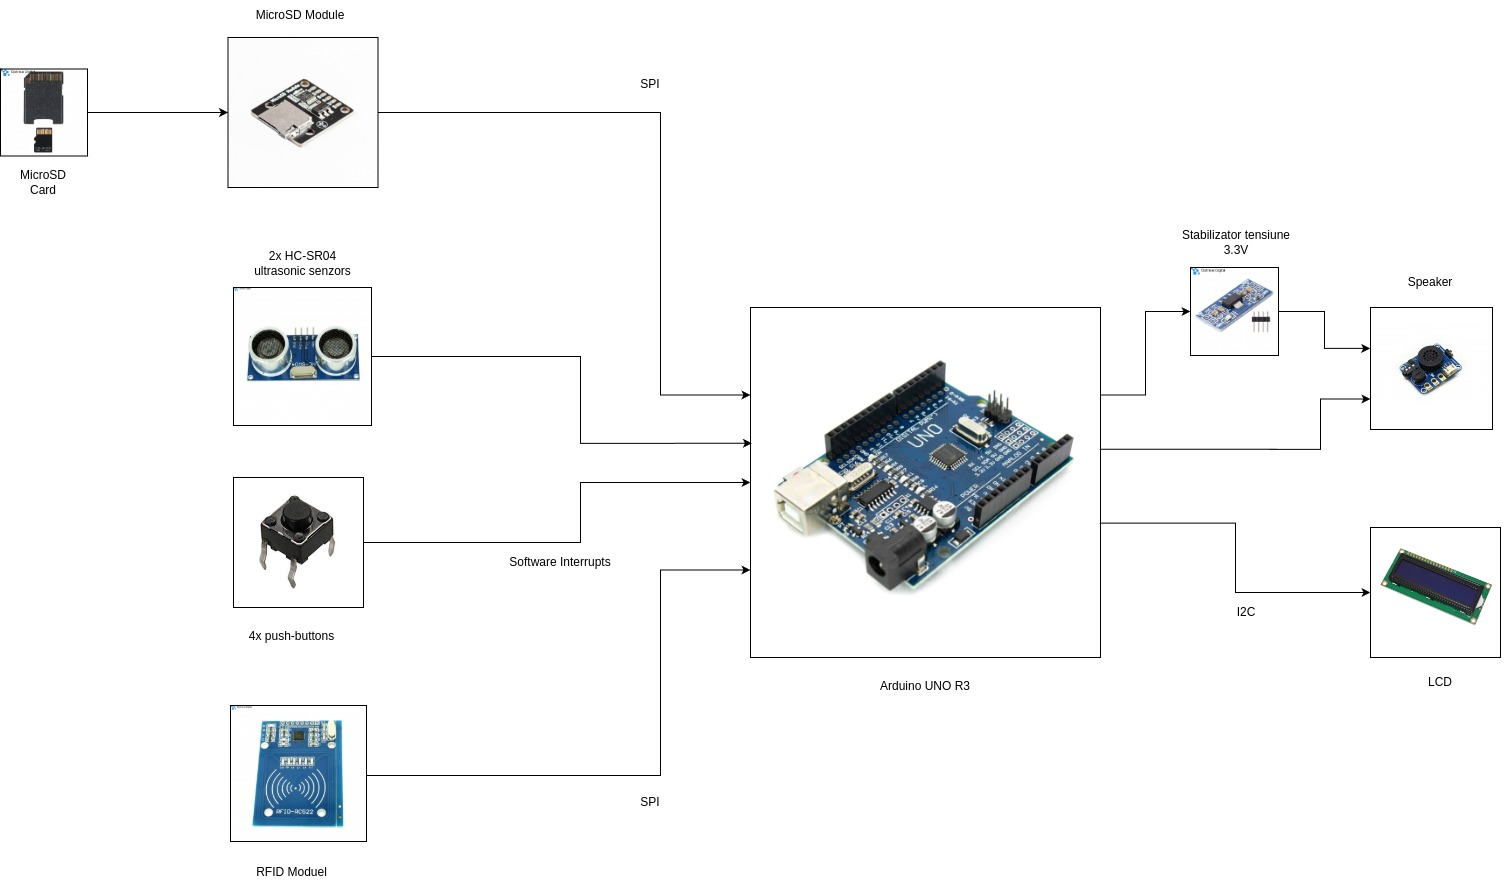
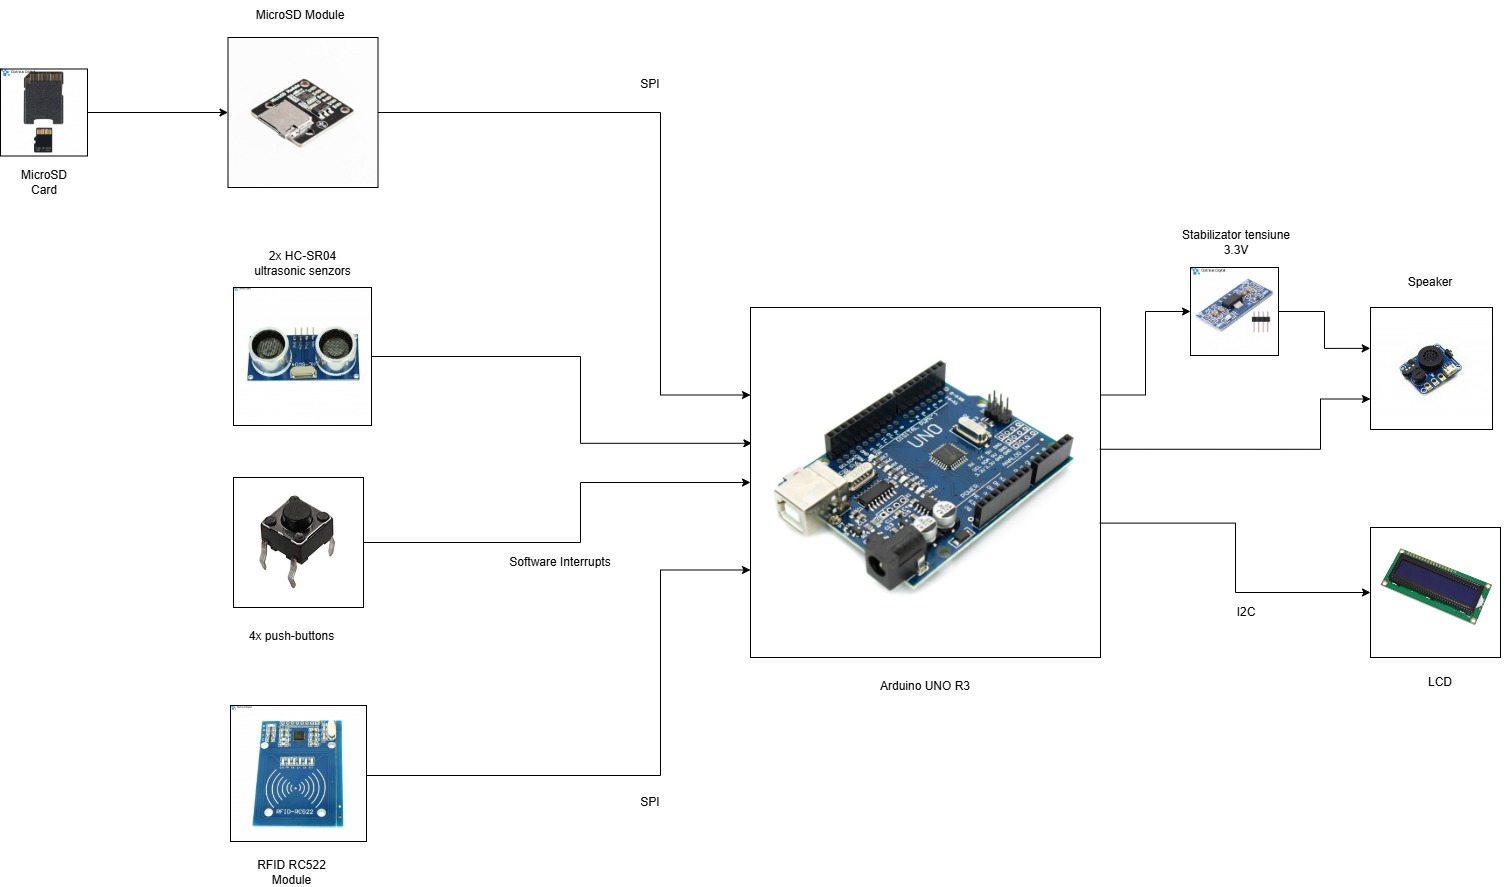
Hardware Design

diff --git a/README.md b/README.md
@@ -21,9 +21,9 @@ TODO
 - Rezistente 220Ω
 - [MicroSD Module](https://ardushop.ro/ro/module/1553-groundstudio-microsd-module-6427854023056.html?gad_source=1&gbraid=0AAAAADlKU-7r0Viay1-t361QlB21iOgs0&gclid=Cj0KCQjwqv2_BhC0ARIsAFb5Ac84XfsbeL3-M0mj8zEMxlvniXkfdQ1SGlEzoFS0otF-lMW6SyWNGnUaAvFmEALw_wcB)
 - [Card MicroSD 16 GB](https://www.optimusdigital.ro/ro/memorii/8678-card-microsd-original-de-16-gb-cu-noobs-compatibil-cu-raspberry-pi-4-model-b-varianta-bulk.html?search_query=%090104110000057297%09&results=1)
-  - Nu am gasit un card mai mic :( 
+  - Nu am gasit un card mai mic 🙁
 - [Speaker for Micro:bit](https://www.emag.ro/modul-difuzor-waveshare-36-52x43-44-mm-compatibil-cu-micro-bit-arduino-speakerformicro-bitwaveshare14542/pd/D785XQMBM/?ref=history-shopping_418333718_138738_1)
-  - Cred ca erau si alte optiuni mult mai ieftine :) 
+  - Cred ca erau si alte optiuni mult mai ieftine 🙂
 - [Stabilizator de 3.3 V](https://www.optimusdigital.ro/ro/electronica-de-putere-stabilizatoare-liniare/168-modul-cu-sursa-de-alimentare-de-33-v.html?search_query=0104110000000521&results=1) (pentru Vin al Speaker-ului)
 - 2 x [Senzor ultrasonic HC-SR04](https://www.optimusdigital.ro/ro/senzori-senzori-ultrasonici/9-senzor-ultrasonic-hc-sr04-.html?search_query=0104110000000866&results=1)
 - [Breadboard 830 puncte](https://www.optimusdigital.ro/ro/prototipare-breadboard-uri/8-breadboard-830-points.html?search_query=breadboard+830&results=15)
@@ -37,20 +37,45 @@ TODO
 ![img](./Images/PM-Project-schema-bloc.jpg)
 
 
-### Circuit Design
+> Diagrama a fost realizata in [draw.io](https://app.diagrams.net/).
 
-TODO
+
+### Schema circuit
+
+![img](./Images/circuit_design.png)
+
+
+> Schema a fost realizata in [Cirkit Designer IDE](https://app.cirkitdesigner.com/).
 
 
 
 
 ## Audio Files
 
-https://y2mate.nu/en-CVeZ/
-https://audio.online-convert.com/convert-to-wav
+Pentru a descarca melodii de pe YouTube drept fisiere **MP3**, am fosolosit:
+- <https://y2mate.nu/en-CVeZ/>
+
+Pentru a transforma **MP3**-urile in fisiere **WAV**, am folosit:
+- <https://audio.online-convert.com/convert-to-wav>
 
 
-# Conectarea butoanelor
+Optiunile folosite la convertirea **MP3 -> WAV**:
+- Bit resolution: **8 bit**
+- Audio frequency: **16 kHz**
+- Audio channels: **Mono**
+
+
+Inainte de a pune fisierele audio pe microSD,
+am formatat cardul in modul **FAT32**
+si am denumit fisierele corespunzator.
+
+⚠ Atentie! Sistemele de fisiere **FAT** folosesc conventia [8.3 filename](https://en.wikipedia.org/wiki/8.3_filename)
+(*also called a **short filename** or **SFN***),
+ceea ce inseamna ca denumirea fisierelor:
+- nu poate avea mai mult de **8** caractere inainte de punct
+- maxim **3** caractere pentru extensie
+
+## Conectarea butoanelor
 
 - Data Sheet Push-Buttons: <https://wiki-content.arduino.cc/documents/datasheets/Button.pdf>
 - <https://components101.com/switches/push-button>
@@ -66,3 +91,25 @@ Asa trebuie sa arate conexiunea cu un push-buton:
 
 <img src="./Images/vertical-button.png" height=250px width=auto>
 <img src="./Images/horizontal-button.png" height=250px width=auto>
+
+
+Exemplu cod (basic) pentru a detecta apasarea butonului:
+
+
+```cpp
+#define PIN_BUTTON 3
+
+void setup()
+{
+  pinMode(PIN_BUTTON, INPUT);
+  Serial.begin(9600);
+}
+
+void loop()
+{
+  if (digitalRead(PIN_BUTTON) == LOW) {
+  	Serial.println("butonul a fost apasat!");
+  }
+  delay(100);
+}
+```
